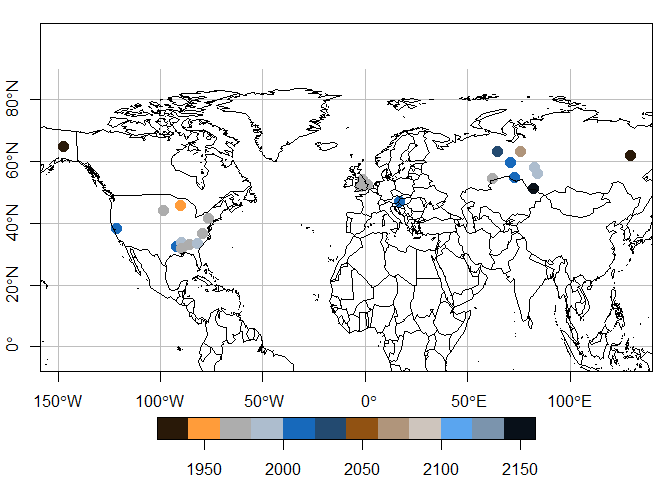
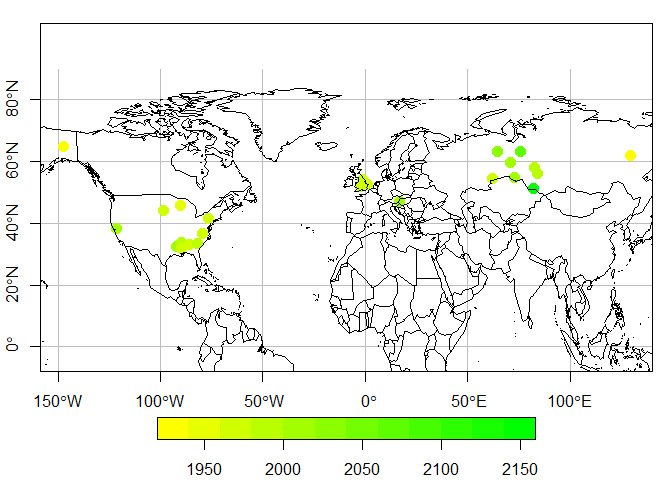
site

diff --git a/README.md b/README.md
@@ -1,4 +1,4 @@
-R Tools for Obspack, Footprints and Receptors (rtorf)
+R Tools for Obspack, Receptors and Footprints (rtorf)
 ================
 
 ![GitHub commit
@@ -122,6 +122,11 @@ dft <- obs_table(df = df)
 
 Now we can visualize the average of observations by site.
 
+    ## Colour gradient: nd_basic_Magenta_White, number: 5283
+
+    ## png 
+    ##   2
+
 ``` r
 library(sf)
 sdft <- st_as_sf(dft[stat == "mean"], 
@@ -136,15 +141,10 @@ plot(sdft["value"],
      cex = 1.5, 
      pal = cptcity::lucky(colorRampPalette = T), #random
      main = NULL)
-```
-
-    ## Colour gradient: fractint_stripmap_lkmtch07, number: 2208
-
-``` r
 maps::map(add = T)
 ```
 
-![](README_files/figure-gfm/sf-1.png)<!-- -->
+![](man/figures/plotsf.png)
 
 Let us randomly select a couples of sites from the database.
 
@@ -153,8 +153,8 @@ usites <- unique(df$site_name)[sample(seq_along(unique(df$site_name)), 2)]
 usites
 ```
 
-    ## [1] "Carbon in Arctic Reservoirs Vulnerability Experiment (CARVE)"
-    ## [2] "Azovo"
+    ## [1] "Igrim"                                                       
+    ## [2] "Carbon in Arctic Reservoirs Vulnerability Experiment (CARVE)"
 
 ``` r
 knitr::kable(dft[site_name %in% usites])
@@ -162,18 +162,18 @@ knitr::kable(dft[site_name %in% usites])
 
 | site_name                                                    | site_latitude | site_longitude | site_country  | site_code |     value |       time | time_decimal | latitude | longitude | stat   | timeUTC             |
 |:-------------------------------------------------------------|--------------:|---------------:|:--------------|:----------|----------:|-----------:|-------------:|---------:|----------:|:-------|:--------------------|
-| Azovo                                                        |       54.7050 |        73.0292 | Russia        | AZV       | 1.776e-06 | 1254893400 |         2010 |    54.70 |     73.03 | min    | 2009-10-07 05:30:00 |
-| Azovo                                                        |       54.7050 |        73.0292 | Russia        | AZV       | 1.956e-06 | 1323138600 |         2012 |    54.70 |     73.03 | q1     | 2011-12-06 02:30:00 |
-| Azovo                                                        |       54.7050 |        73.0292 | Russia        | AZV       | 2.011e-06 | 1481661000 |         2017 |    54.70 |     73.03 | median | 2016-12-13 20:30:00 |
-| Azovo                                                        |       54.7050 |        73.0292 | Russia        | AZV       | 2.019e-06 | 1440860069 |         2016 |    54.70 |     73.03 | mean   | 2015-08-29 14:54:29 |
-| Azovo                                                        |       54.7050 |        73.0292 | Russia        | AZV       | 2.059e-06 | 1519223400 |         2018 |    54.70 |     73.03 | q3     | 2018-02-21 14:30:00 |
-| Azovo                                                        |       54.7050 |        73.0292 | Russia        | AZV       | 3.173e-06 | 1577835000 |         2020 |    54.70 |     73.03 | max    | 2019-12-31 23:30:00 |
 | Carbon in Arctic Reservoirs Vulnerability Experiment (CARVE) |       64.9863 |      -147.5980 | United States | CRV       | 1.830e-06 | 1319340600 |         2012 |    64.99 |   -147.60 | min    | 2011-10-23 03:30:00 |
 | Carbon in Arctic Reservoirs Vulnerability Experiment (CARVE) |       64.9863 |      -147.5980 | United States | CRV       | 1.904e-06 | 1401946200 |         2014 |    64.99 |   -147.60 | q1     | 2014-06-05 05:30:00 |
 | Carbon in Arctic Reservoirs Vulnerability Experiment (CARVE) |       64.9863 |      -147.5980 | United States | CRV       | 1.926e-06 | 1477751400 |         2017 |    64.99 |   -147.60 | median | 2016-10-29 14:30:00 |
 | Carbon in Arctic Reservoirs Vulnerability Experiment (CARVE) |       64.9863 |      -147.5980 | United States | CRV       | 1.929e-06 | 1479259585 |         2017 |    64.99 |   -147.60 | mean   | 2016-11-16 01:26:25 |
 | Carbon in Arctic Reservoirs Vulnerability Experiment (CARVE) |       64.9863 |      -147.5980 | United States | CRV       | 1.951e-06 | 1556659800 |         2019 |    64.99 |   -147.60 | q3     | 2019-04-30 21:30:00 |
 | Carbon in Arctic Reservoirs Vulnerability Experiment (CARVE) |       64.9863 |      -147.5980 | United States | CRV       | 2.224e-06 | 1640968200 |         2022 |    64.99 |   -147.60 | max    | 2021-12-31 16:30:00 |
+| Igrim                                                        |       63.1903 |        64.4156 | Russia        | IGR       | 1.858e-06 | 1112437800 |         2005 |    63.19 |     64.42 | min    | 2005-04-02 10:30:00 |
+| Igrim                                                        |       63.1903 |        64.4156 | Russia        | IGR       | 1.940e-06 | 1182166200 |         2007 |    63.19 |     64.42 | q1     | 2007-06-18 11:30:00 |
+| Igrim                                                        |       63.1903 |        64.4156 | Russia        | IGR       | 1.991e-06 | 1238239800 |         2009 |    63.19 |     64.42 | median | 2009-03-28 11:30:00 |
+| Igrim                                                        |       63.1903 |        64.4156 | Russia        | IGR       | 2.031e-06 | 1238496443 |         2009 |    63.19 |     64.42 | mean   | 2009-03-31 10:47:23 |
+| Igrim                                                        |       63.1903 |        64.4156 | Russia        | IGR       | 2.071e-06 | 1294997400 |         2011 |    63.19 |     64.42 | q3     | 2011-01-14 09:30:00 |
+| Igrim                                                        |       63.1903 |        64.4156 | Russia        | IGR       | 4.223e-06 | 1375065000 |         2014 |    63.19 |     64.42 | max    | 2013-07-29 02:30:00 |
 
 We added a function to plot the data read from ObsPack. The y-axis is
 the field `value` and the x-axis is by default `time`. The data
